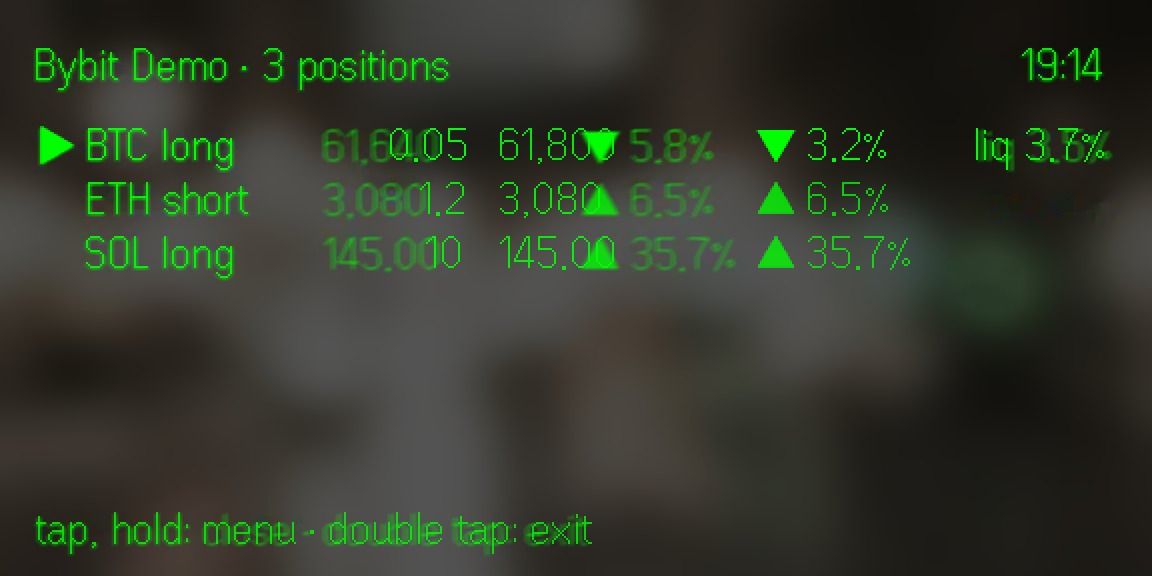
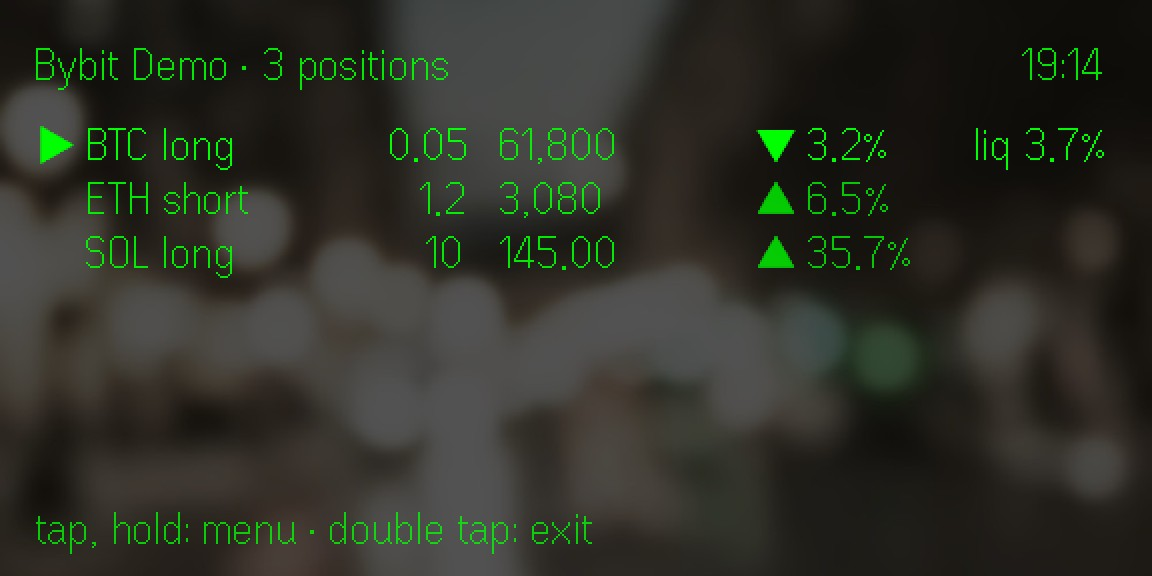
Release Even Hub beta 0.1.5 with spoken close classified on the server.
A tap or Speak then close still only raises the confirmation card. The voice reply now includes that classification, and the hosted API matches this commit.

diff --git a/site/landing/index.html b/site/landing/index.html
@@ -135,8 +135,8 @@ body{font-family:Manrope,system-ui,-apple-system,"Segoe UI",Arial,sans-serif}
     <div class="gal" role="region" aria-roledescription="carousel" aria-label="Screens through the G2 lens">
       <div class="gal-view">
         <div class="gal-track" tabindex="0">
-          <figure data-caption="Open positions · G2 lens"><img src="img/hud/positions.png" alt="Main menu showing open BTC, ETH and SOL positions" width="576" height="288"></figure>
-          <figure data-caption="Position detail · G2 lens"><img src="img/hud/position-detail.png" alt="BTC position detail showing PnL, leverage, liquidation distance and a price chart" width="576" height="288"></figure>
+          <figure data-caption="Open positions · G2 lens"><img src="img/hud/positions.png" alt="Main menu showing open BTC, ETH and SOL positions with their sizes" width="576" height="288"></figure>
+          <figure data-caption="Position detail · G2 lens"><img src="img/hud/position-detail.png" alt="BTC position detail showing size, leverage, PnL, liquidation distance and a price chart" width="576" height="288"></figure>
           <figure><img src="img/hud/liq.png" alt="Liquidation alert: BTC long 3.2% from liquidation, Close 50% ready to confirm" width="1152" height="576" loading="lazy"></figure>
           <figure><img src="img/hud/loss.png" alt="Loss alert" width="1152" height="576" loading="lazy"></figure>
           <figure><img src="img/hud/nearstop.png" alt="Stop loss alert" width="1152" height="576" loading="lazy"></figure>
@@ -182,9 +182,9 @@ body{font-family:Manrope,system-ui,-apple-system,"Segoe UI",Arial,sans-serif}
       <div>
         <span class="kick">Positions</span>
         <h2>Every open position. <em>In front of your eyes.</em></h2>
-        <p>Main shows open positions, mark price, ROI and a warning near liquidation. Tap a position for its leverage, PnL, stop and liquidation distances, and the past hour of prices.</p>
+        <p>Main shows open positions, size, mark price, ROI and a warning near liquidation. Tap a position for its size and leverage, PnL, stop and liquidation distances, and the past hour of prices.</p>
       </div>
-      <div class="cards position-screens"><img class="c1" src="img/cards/positions.jpg" alt="Main menu showing open BTC, ETH and SOL positions, their prices and returns" width="1152" height="576" loading="lazy" draggable="false"><img class="c2" src="img/cards/position-detail.jpg" alt="BTC position detail showing PnL, leverage, liquidation distance and a price chart" width="1152" height="576" loading="lazy" draggable="false"></div>
+      <div class="cards position-screens"><img class="c1" src="img/cards/positions.jpg" alt="Main menu showing open BTC, ETH and SOL positions, their sizes, prices and returns" width="1152" height="576" loading="lazy" draggable="false"><img class="c2" src="img/cards/position-detail.jpg" alt="BTC position detail showing size, leverage, PnL, liquidation distance and a price chart" width="1152" height="576" loading="lazy" draggable="false"></div>
     </div>
   </section>
   <section class="fam">

diff --git a/server/src/session.ts b/server/src/session.ts
@@ -29,7 +29,7 @@ export type Session = {
   pick(proposalId: string, size: number, leverage: number): Promise<Reply & { proposalId?: string }>
   /** Raises the proposals of the shortcut whose phrase was said. Nothing runs until a tap. */
   voice(text: string): Promise<Reply>
-  /** Glasses menu: the seeded "protect all", "lock profits" and "close all" shortcuts, by phrase; `at` keeps one position. */
+  /** Glasses menu: seeded protect, lock and close. `at` keeps one position and the toast says "close position". */
   command(kind: Command, at?: { symbol: string; positionIdx: number }): Promise<Reply>
   /** Editor · Options · Test: a simulated alert and proposal on the first target (§9). */
   test(shortcutId: string): Promise<Reply & { alertId?: string; proposalId?: string }>
@@ -537,7 +537,7 @@ export function createSession(ex: Exchange, store: Store, clock: () => number = 
     return store.pendingProposals().filter(p => p.expiresAt > now).sort(queueOrder)
   }
 
-  async function voice(text: string, at?: { symbol: string; positionIdx: number }): Promise<Reply> {
+  async function voice(text: string, at?: { symbol: string; positionIdx: number }, said?: string): Promise<Reply> {
     const reply = (message: string) => { say(message, { first: true }); return { ok: false, message } }
     if (!normalizePhrase(text)) return reply('Heard nothing')
     const rule = matchShortcut(text, store.listShortcuts().filter(r => r.enabled))
@@ -547,8 +547,7 @@ export function createSession(ex: Exchange, store: Store, clock: () => number = 
       if (at && (t.position?.symbol !== at.symbol || t.position.positionIdx !== at.positionIdx)) continue
       if ((await raise(rule, t, { reason: `Voice: ${rule.voicePhrase}`, matched: [], voice: true }, ctxNow())).proposal) n++
     }
-    // One position uses the close-all rule filtered down: the lens should not say every position is closing.
-    const heard = at && rule.voicePhrase === PHRASE.close ? 'close position' : rule.voicePhrase
+    const heard = said ?? rule.voicePhrase
     if (!n) return reply(`Heard "${heard}" · nothing to change`)
     return { ok: true, message: `Heard "${heard}" · ${n} proposal${n > 1 ? 's' : ''}` }
   }
@@ -636,7 +635,8 @@ export function createSession(ex: Exchange, store: Store, clock: () => number = 
     },
 
     voice: text => voice(text),
-    command: (kind, at) => voice(PHRASE[kind], at),
+    // Close of one position matches the "close all" seed, then keeps that position. The toast names that one position.
+    command: (kind, at) => voice(PHRASE[kind], at, kind === 'close' && at ? 'close position' : undefined),
 
     async test(shortcutId) {
       const rule = store.getShortcut(shortcutId)

diff --git a/app/src/api.ts b/app/src/api.ts
@@ -94,7 +94,7 @@ export const getExecution = (executionId: string) => request<Execution>('GET', `
 export const getProposalExecution = (proposalId: string) => request<Execution>('GET', `/api/proposals/${id(proposalId)}/execution`)
 /** Glasses menu: raise the seeded "protect all" (`stop`), "lock profits" (`lock`) or "close all" (`close`) shortcut; `position` keeps one. */
 export const command = (kind: Command, position?: { symbol: string; positionIdx: number }) => request<Reply>('POST', '/api/command', { command: kind, position })
-/** The lens's answer to its alert: `answer` is null for silence or anything that is not a plain yes or no. */
+/** Transcript plus the two readings the server made. `answer` is yes or no. `close` is a whole-phrase close from Speak. */
 export const voice = (pcm: Uint8Array) => request<{ heard: string; answer: 'yes' | 'no' | null; close: { all: boolean; coin?: string } | null }>('POST', '/api/voice', pcm, VOICE_TIMEOUT_MS)
 
 // ── phone: shortcuts, editor, history, settings ───────────

diff --git a/app/src/main.ts b/app/src/main.ts
@@ -470,11 +470,10 @@ async function poll(force = false) {
   await draw()
 }
 
-// ── voice: the mic opens when an alert arrives; yes starts a countdown, no dismisses ──
+// ── voice: a card listens for yes or no; Speak listens for a close the server already classified ──
 
 async function startListening(ms: number, target: Listen) {
   if (!bridge || mic !== 'off' || !canUseVoice() || !speakOn()) return
-  if (target.kind === 'close' && !api.voiceAnswersOn()) return
   mic = 'starting'
   listening = target
   listenMs = ms

diff --git a/docs/handoff.md b/docs/handoff.md
@@ -25,12 +25,14 @@ Settings in the Even app can send a connection check to the lens in the same ses
 
 ## Verification and release history
 
+- Version 0.1.5. Speak uses the server's close reading, and closing one position says "close position". Typecheck passed and all 586 automated tests passed on 26 November 2026.
+- The position list and detail on the lens show the coin quantity (`0.05`, `1.2 ETH · 10×`). The landing gallery and position cards use those frames. The browser sandbox draws the same screen code.
 - A missed paper alert no longer stays on Expired while the next card is already waiting, and it leaves the lens on its own after five seconds. A rounded close still says the rule's percent, with the smaller quantity in the note. Paper settings no longer describe a Bybit key, and spoken answers stay off when the server has no transcription. Voice commands are titled by their phrase. A browser tab that is not the simulator does not keep calling the glasses bridge or offer Send test to G2. The sandbox is three paper scenarios. Typecheck passed and all 586 automated tests passed on 26 November 2026.
 - Typecheck and all 587 automated tests passed on 26 November 2026 after the sandbox playback highlight, and again after bringing main's voice cancellation and privacy page onto this branch. The landing price-level cards were refreshed in the same change.
 - The G2 connection check, Quiet mode, and History changes passed typecheck and all 593 automated tests. The app, landing page, and browser sandbox built successfully. The browser simulator confirmed the TEST card, opened the position list from Quiet mode, and recorded a simulated close from 0.050 to 0.025 BTC in History. Physical G2/R1 verification is pending.
 - Working tree based on `f5a7e38`, including local server changes, 25 November 2026. With Node 22.23.4, typecheck and all 587 automated tests passed (zero skipped). The app, landing page, browser sandbox and a test `.ehpk` built in an isolated copy with a placeholder HTTPS origin.
[1 lines of base64/hex data omitted]
-- The hosted API on the VPS serves the current server. Demo returns `Demo data` and the Bybit service returns `Bybit testnet`. Rollback copy of the previous sources and databases: `/opt/trade-shortcuts/bak-20261126-0724`.
[1 lines of base64/hex data omitted]
+- The hosted API on the VPS serves the current server. Demo returns `Demo data` and the Bybit service returns `Bybit testnet`. Rollback copy of the previous sources: `/opt/trade-shortcuts/bak-20261126-1140`. Earlier databases: `/opt/trade-shortcuts/bak-20261126-0724`.
 - Recorded on 24 November 2026 on Bybit testnet (XRPUSDT): open, duplicate `orderLinkId` refused (110072), set SL/TP each keeps the other, SL past mark rejected, limit order listed and cancelled, reduce-only half and oversize close (no flip), fills deduped by `execId`, add margin on isolated (110076 on cross, as expected).
 
 - The hackathon paper demo starts with the BTC half-close rule only. Its card expires after 120 seconds and can recur while the rule matches. The official desktop simulator confirmed 0.025 BTC once from 0.050 BTC and showed a single fill in History. A separate run with a synthetic lost confirmation reply recovered the execution by a read-only request. The app, landing, and sandbox built successfully and 589 automated tests passed.

diff --git a/docs/judge-testing.md b/docs/judge-testing.md
@@ -4,7 +4,7 @@ Use the Even Realities app on the phone already paired with your G2. The walkthr
 
 ## Even Hub Beta
 
-1. Accept the Trade Shortcuts invitation for the Even account signed in on your phone. The project maintainer needs to see **Active** membership and a build in the **Beta** channel for `com.tradeshortcuts.g2`. In the Even Realities app, go to **Me → Beta tester**, install **Trade Shortcuts 0.1.4**, then open it from the G2 menu. If the phone says the test version expired, ask the maintainer to check both conditions. [Even Hub Beta testing](https://hub.evenrealities.com/docs/test/beta-testing), [Membership status](https://hub.evenrealities.com/docs/cli/testers)
+1. Accept the Trade Shortcuts invitation for the Even account signed in on your phone. The project maintainer needs to see **Active** membership and a build in the **Beta** channel for `com.tradeshortcuts.g2`. In the Even Realities app, go to **Me → Beta tester**, install **Trade Shortcuts 0.1.5**, then open it from the G2 menu. If the phone says the test version expired, ask the maintainer to check both conditions. [Even Hub Beta testing](https://hub.evenrealities.com/docs/test/beta-testing), [Membership status](https://hub.evenrealities.com/docs/cli/testers)
 2. In the plugin’s phone view, open **Settings → Connection → Server**. Use the dedicated paper **Address** and **Token** received separately through a private channel, then tap **Connect**. Check for **Connected**, an **Account** line starting with **Paper** or **Demo data**, and **Live trading: Off**. Turn **Answer alerts by voice** off for this walkthrough. If the account says **Bybit demo** or **Bybit testnet**, stop before confirming anything.
 3. Check that paper positions appear on the glasses. If your paper server supports the connection check, go to **Settings → Even G2** and tap **Send test to G2**. On the glasses, tap **OK** on the **TEST** card titled **Connection check**. The phone should say **Confirmed on G2.** If a paper proposal is ahead of the connection card, select **Dismiss** on that proposal.
 4. Back in **Shortcuts**, open the **Close position** shortcut with a near-liquidation condition and a **50%** close. Tap the shortcut title at the top of the editor and select **Test alert**. On the G2, wait for the card marked **TEST**, swipe to highlight **Close 50%**, then tap once. Check for **Test only · nothing was sent** on the lens and in phone **History**. This rehearses the confirmation and leaves paper positions unchanged. If there’s no matching paper position, use the browser fallback below.

diff --git a/docs/shortcuts-architecture.md b/docs/shortcuts-architecture.md
@@ -277,7 +277,7 @@ Endpoints, by the screen that calls them. All under `/api`, behind the existing 
 | History | `GET /history?before=` | alert lines with their last status (§9), newest first |
 | Settings | `GET /settings`, `PUT /settings` | Bybit status, environment, API access and withdrawals (from `/v5/user/query-api`), live trading (read-only: a server switch, off); Notifications: alerts on glasses, in-app notifications; cooldown and expiry |
 | Phone app, any screen | `GET /notifications?after=` | new alerts for the in-app banner and badge, polled while the app is open |
-| Lens · voice | `POST /voice` | PCM audio returns `{heard, answer}`. The client handles dismissal or cancellable confirmation. |
+| Lens · voice | `POST /voice` | PCM audio returns `{heard, answer, close}`. `answer` is yes or no for the card. `close` is a whole-phrase close from Speak. The client confirms either and does not parse the transcript. |
 | Lens · menu | `POST /command` | `stop`, `lock` or `close` raises guarded proposals. Close can target one position. |
 | Lens · Detail | `GET /chart?symbol=…` | Last-price minute candles for an open position; cached for a minute. |
 | Lens · Open | `POST /proposals/:id/pick` | Select allowed size and leverage and obtain a new proposal for Review. |
